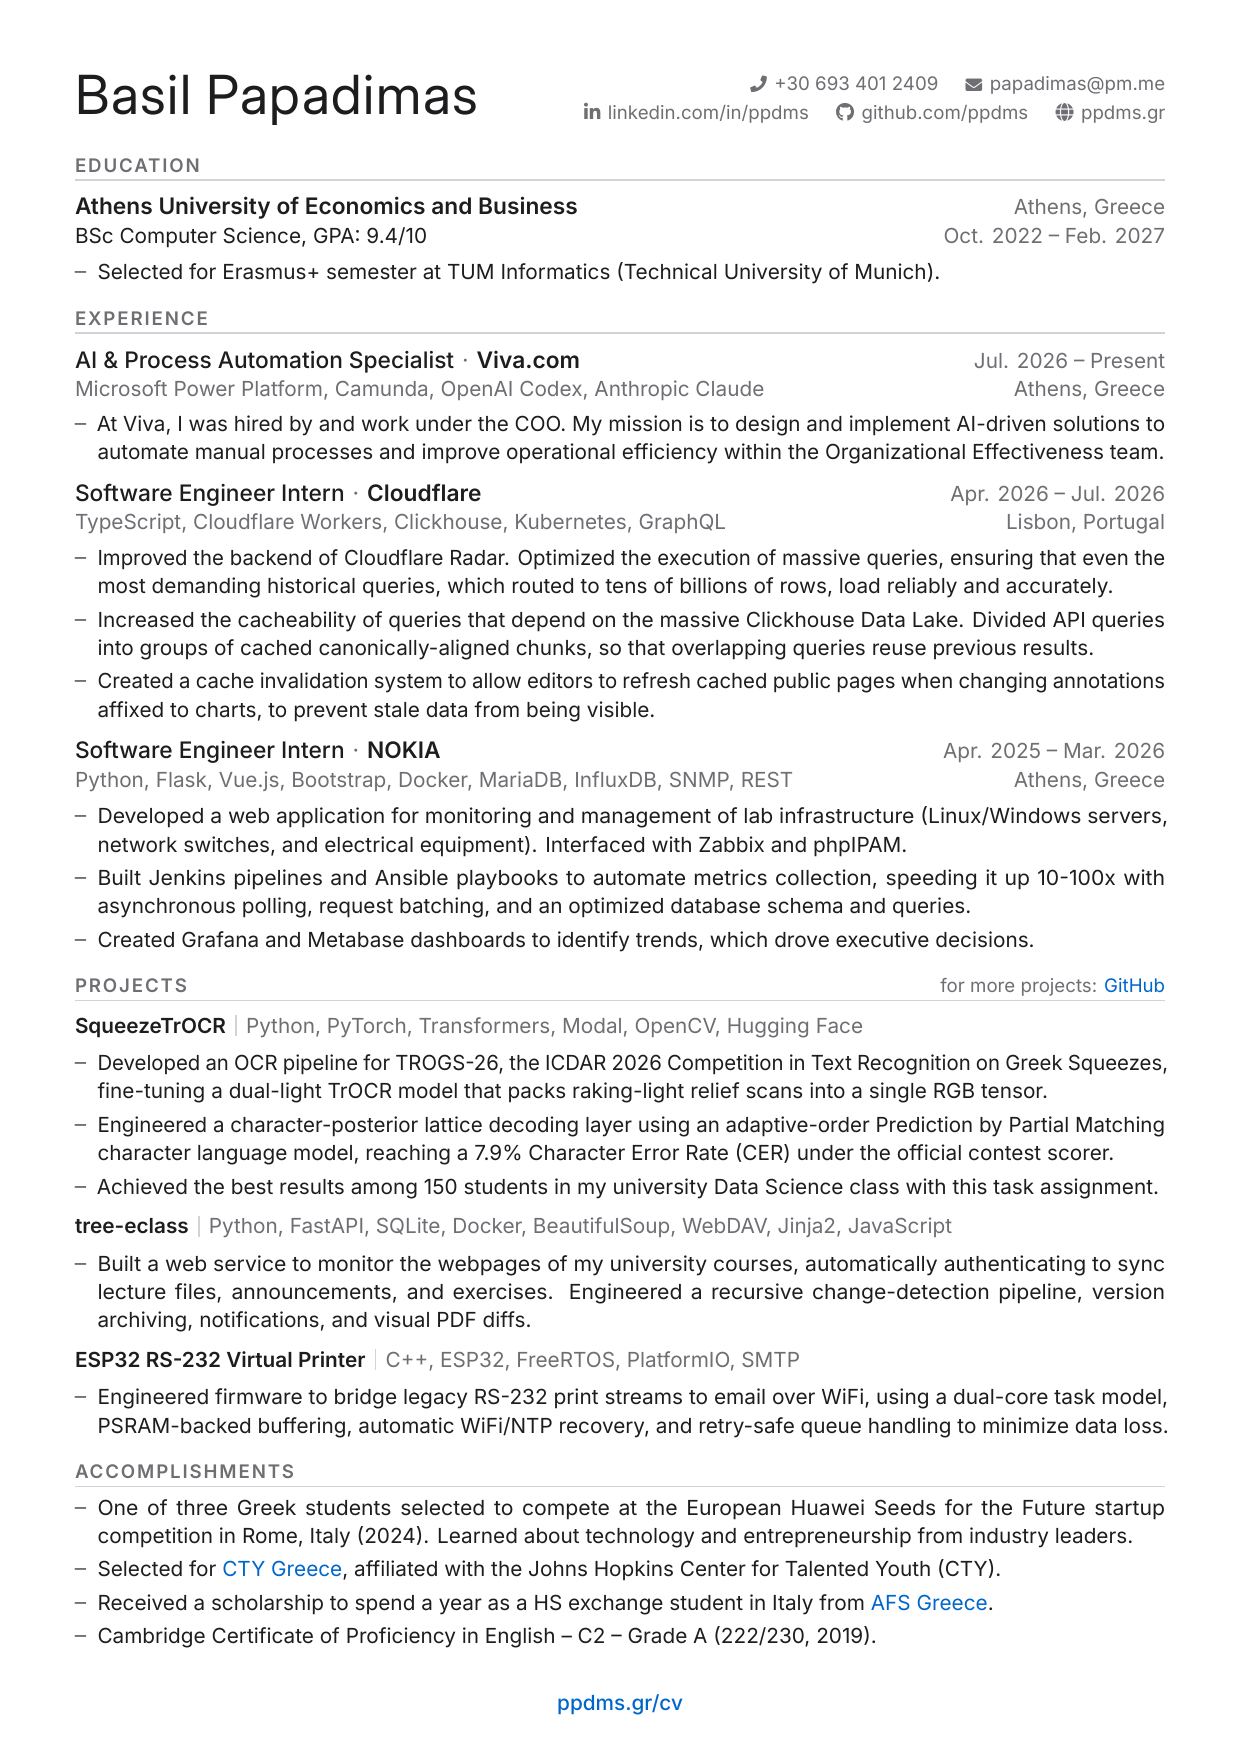
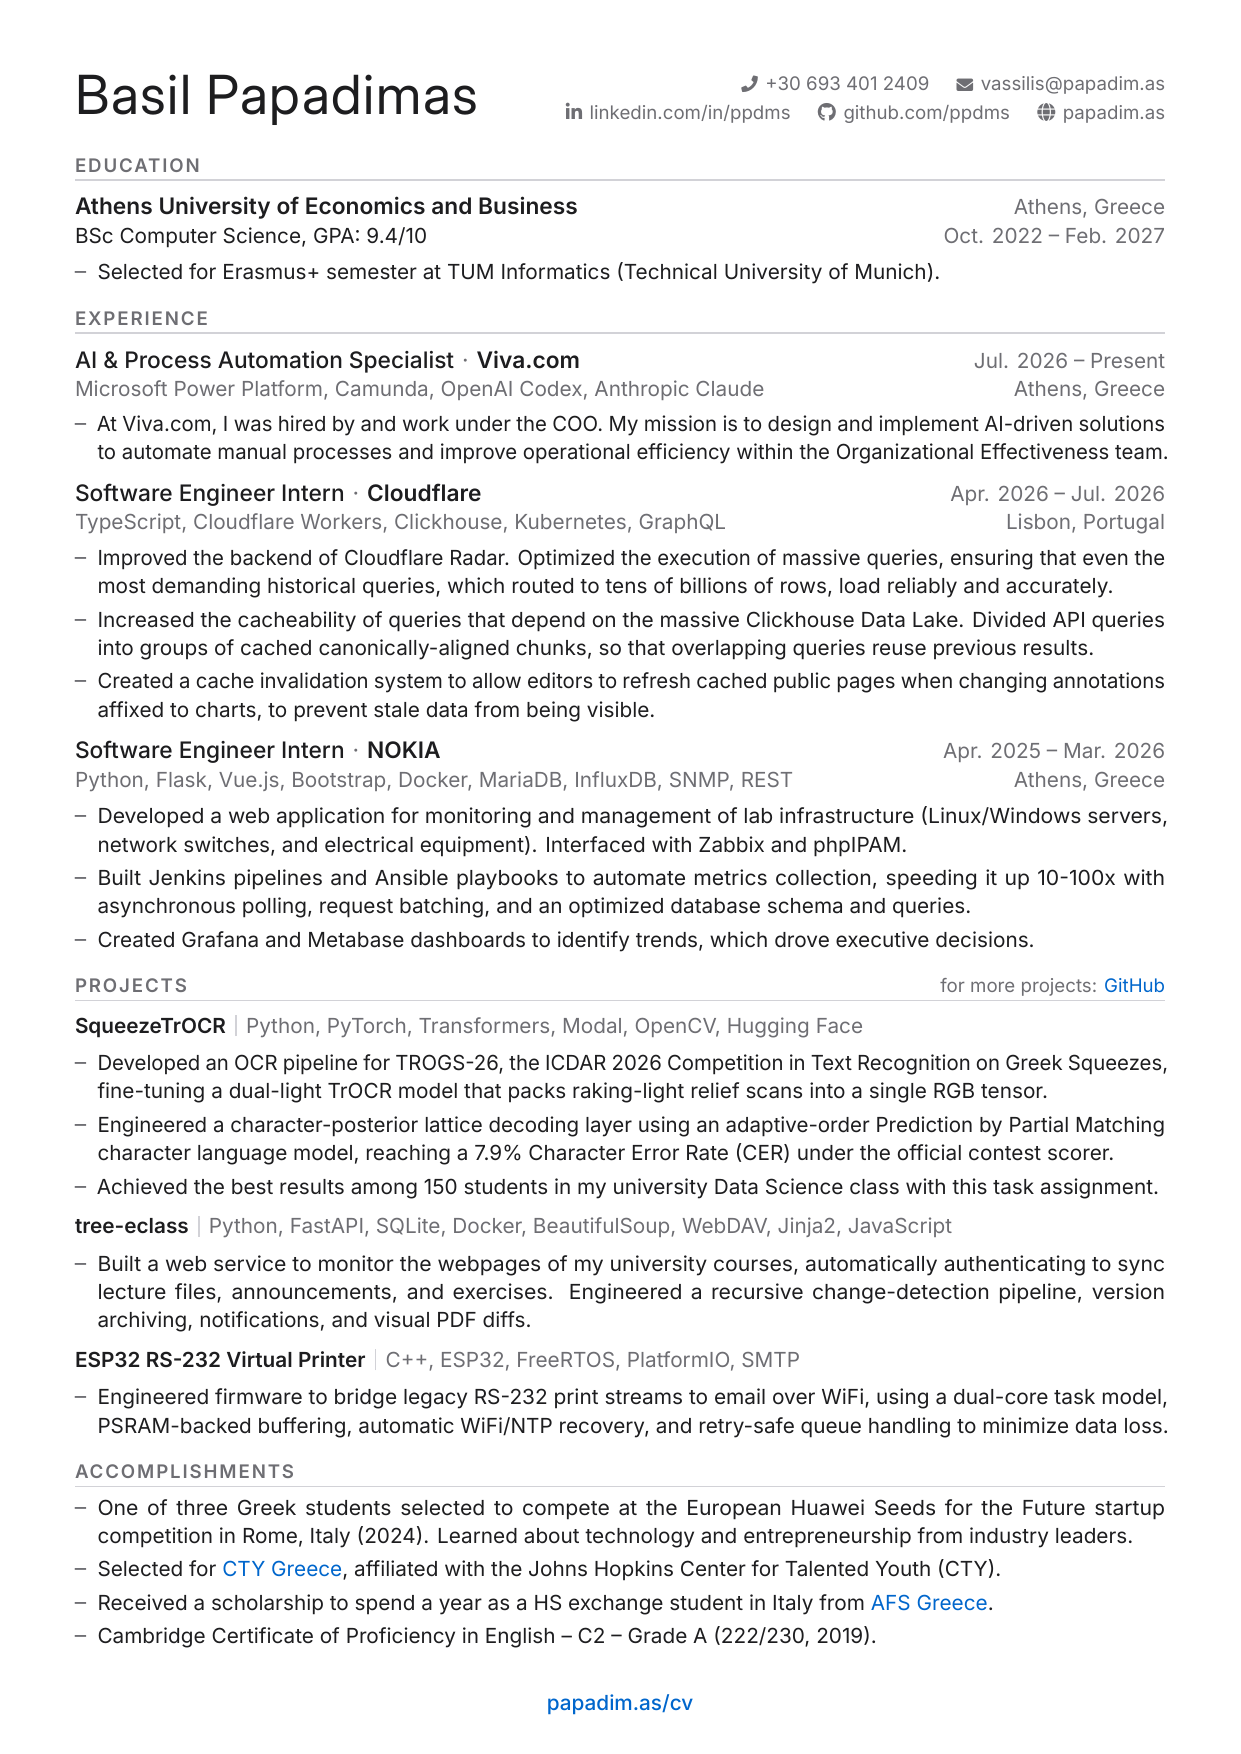
1788616848

Changed region(s): [[0.0919, 0.2155, 0.9186, 0.2771], [0.4593, 0.0308, 0.9186, 0.0924], [0.4287, 0.9544, 0.5512, 0.9852]]

diff --git a/CV_Basil_Papadimas.tex b/CV_Basil_Papadimas.tex
@@ -19,7 +19,7 @@
 \newfontfamily\rolefont{Inter-Medium.ttf}[Path=./fonts/, Scale=1.0]
 \newfontfamily\namefont{InterDisplay-Regular.ttf}[Path=./fonts/, Scale=1.0, LetterSpace=3]
 \newfontfamily\labelfont{Inter-SemiBold.ttf}[Path=./fonts/, Scale=1.0, LetterSpace=10]
-% footskip puts the ppdms.gr/cv footer baseline ~centered in the bottom margin
+% footskip puts the papadim.as/cv footer baseline ~centered in the bottom margin
 \usepackage[margin=0.5in, top=0.5in, footskip=15pt]{geometry}
 \usepackage{titlesec}
 \usepackage{xcolor}
@@ -42,8 +42,8 @@
 %------------------------------------------------------------------------------
 \pagestyle{fancy}
 \fancyhf{} % clear all header and footer fields
-% The ppdms.gr/cv link lives in the page's footer region (bottom margin)
-\fancyfoot[C]{\small\href{https://ppdms.gr/cv}{\rolefont\color{appleblue}ppdms.gr/cv}}
+% The papadim.as/cv link lives in the page's footer region (bottom margin)
+\fancyfoot[C]{\small\href{https://papadim.as/cv}{\rolefont\color{appleblue}papadim.as/cv}}
 \renewcommand{\headrulewidth}{0pt}
 \renewcommand{\footrulewidth}{0pt}
 
@@ -175,12 +175,12 @@
   \raggedleft
   \href{tel:+306934012409}{{\fontsize{8}{8}\selectfont\raisebox{0.25pt}[0pt][0pt]{\faPhone}}\hspace{0.4em}+30~693~401~2409}
   \hspace{0.9em}
-  \href{mailto:papadimas@pm.me}{{\fontsize{8}{8}\selectfont\raisebox{-0.4pt}[0pt][0pt]{\faEnvelope}}\hspace{0.4em}papadimas@pm.me} \\[3pt]
+  \href{mailto:vassilis@papadim.as}{{\fontsize{8}{8}\selectfont\raisebox{-0.4pt}[0pt][0pt]{\faEnvelope}}\hspace{0.4em}vassilis@papadim.as} \\[3pt]
   \href{https://linkedin.com/in/ppdms}{\raisebox{0pt}[0pt][0pt]{\faLinkedinIn}\hspace{0.4em}linkedin.com/in/ppdms}
   \hspace{0.9em}
   \href{https://github.com/ppdms}{\raisebox{0pt}[0pt][0pt]{\faGithub}\hspace{0.4em}github.com/ppdms}
   \hspace{0.9em}
-  \href{https://ppdms.gr}{\raisebox{0pt}[0pt][0pt]{\faGlobe}\hspace{0.4em}ppdms.gr}
+  \href{https://papadim.as}{\raisebox{0pt}[0pt][0pt]{\faGlobe}\hspace{0.4em}papadim.as}
 \end{minipage}
 
 %-----------EDUCATION-----------
